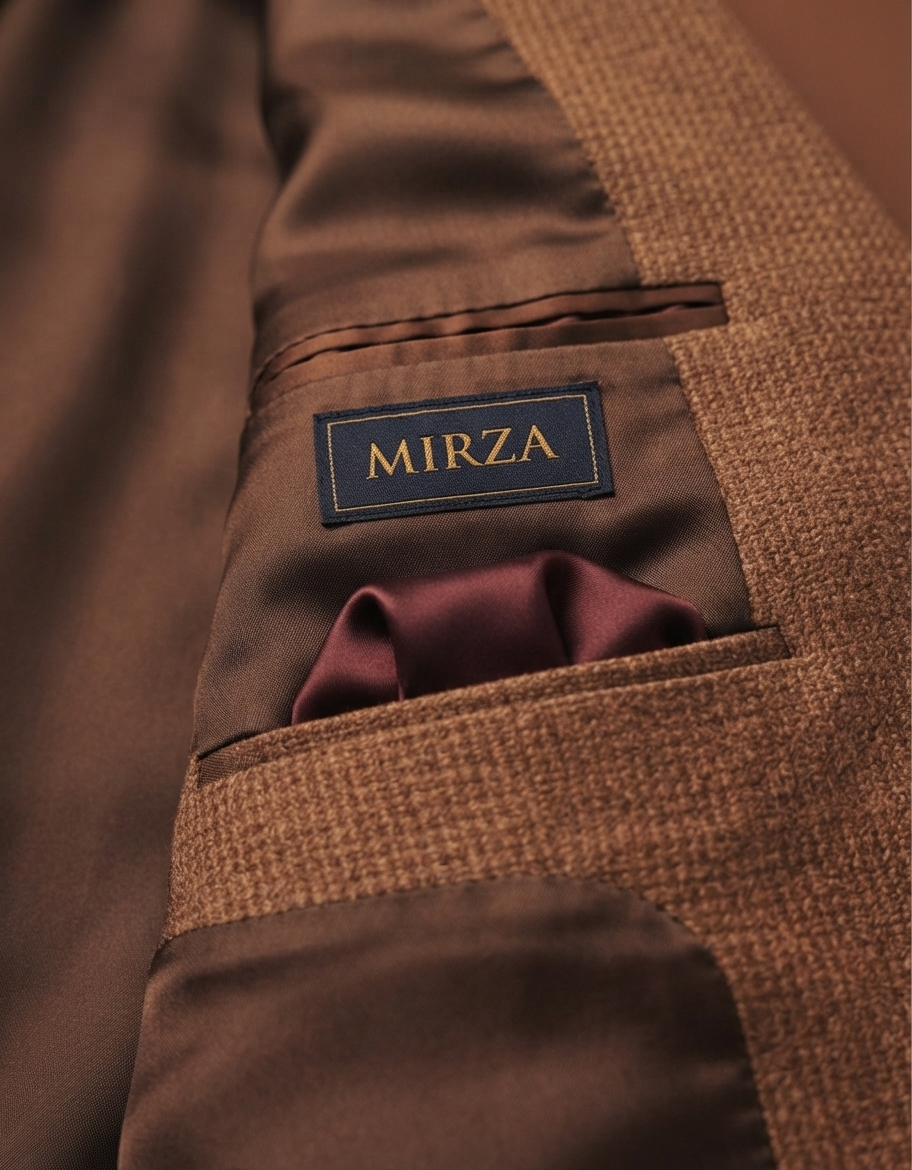
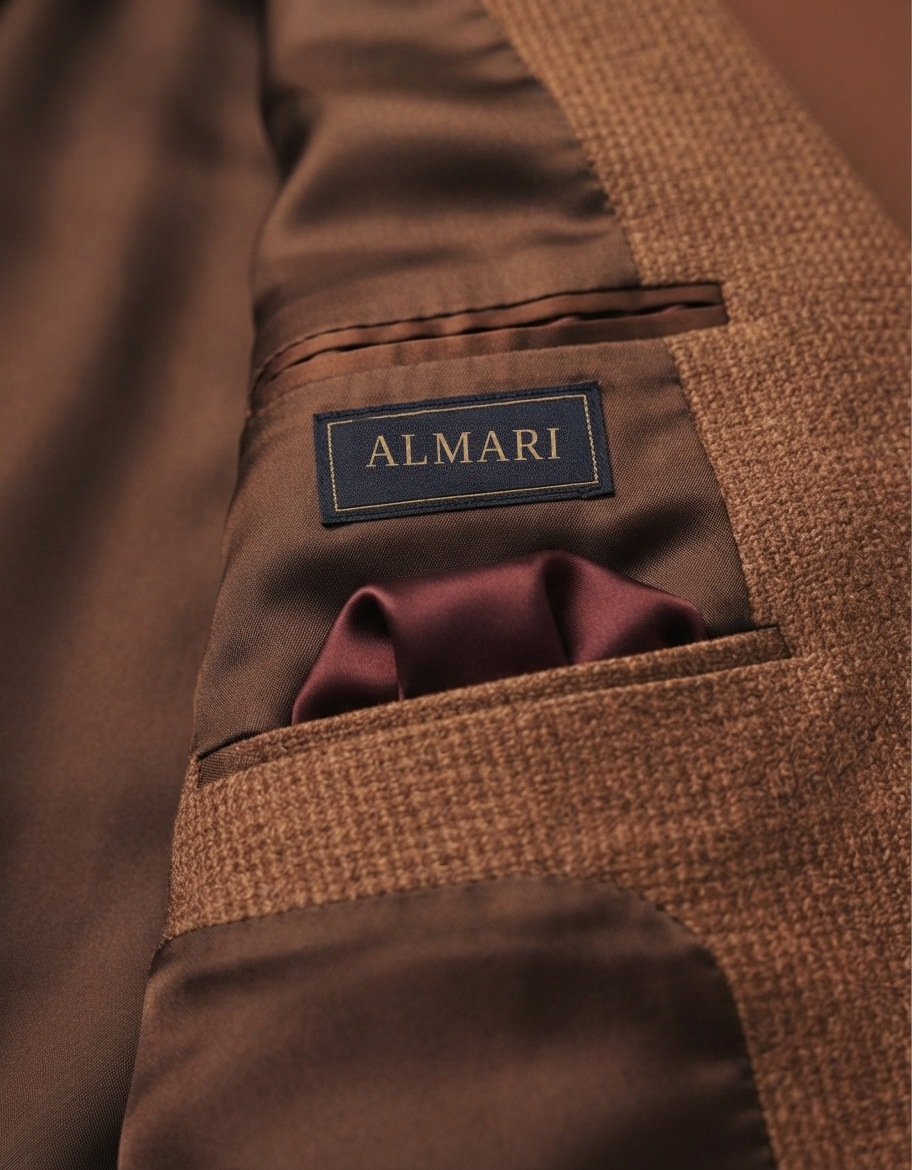
Endurnefna Mirza í Almari (texti og myndir)

Changed region(s): [[0.3991, 0.3385, 0.614, 0.4308]]

diff --git a/index.html b/index.html
@@ -3,7 +3,7 @@
 <head>
 <meta charset="utf-8">
 <meta name="viewport" content="width=device-width, initial-scale=1">
-<title>Mirza — Sérsaumuð herraföt</title>
+<title>Almari — Sérsaumuð herraföt</title>
 <link rel="preconnect" href="https://fonts.googleapis.com">
 <link href="https://fonts.googleapis.com/css2?family=Bodoni+Moda:ital,wght@0,400;0,500;0,600;0,700;1,400;1,500&family=Work+Sans:wght@400;500;600&display=swap" rel="stylesheet">
 <style>
@@ -34,7 +34,7 @@
 
   <!-- NAV -->
   <nav style="position: fixed; top: 0; left: 0; right: 0; z-index: 50; display: flex; align-items: center; justify-content: space-between; padding: 20px 48px; background: rgba(20,16,12,0.86); backdrop-filter: blur(10px);">
-    <a href="#top" class="serif" style="font-size: 42px; font-style: italic; color: #EDE6D6; letter-spacing: 0.01em;">Mirza</a>
+    <a href="#top" class="serif" style="font-size: 42px; font-style: italic; color: #EDE6D6; letter-spacing: 0.01em;">Almari</a>
     <div class="nav-links">
       <a href="#ferlid" style="color: #EDE6D6; font-size: 15px;">Ferlið</a>
       <a href="#handverk" style="color: #EDE6D6; font-size: 15px;">Handverkið</a>
@@ -62,7 +62,7 @@
       </div>
       <div style="display: flex; flex-direction: column; gap: 16px;">
         <div style="position: relative; width: 100%; aspect-ratio: 912/700; overflow: hidden; border: 1px solid rgba(237,230,214,0.14);">
-          <img src="hero-flatlay.jpg" alt="Sérsaumuð MIRZA jakkaföt og verkfæri klæðskerans" style="width: 100%; height: 100%; object-fit: cover; object-position: top center; display: block;">
+          <img src="hero-flatlay.jpg" alt="Sérsaumuð ALMARI jakkaföt og verkfæri klæðskerans" style="width: 100%; height: 100%; object-fit: cover; object-position: top center; display: block;">
         </div>
         <p style="margin: 0; font-size: 13px; font-style: italic; color: #8A7F6B;">Verkfærin á bak við hverja flík.</p>
       </div>
@@ -114,7 +114,7 @@
         </p>
         <div style="display: flex; align-items: center; gap: 16px; margin-top: 8px;">
           <div style="width: 96px; height: 124px; flex-shrink: 0; overflow: hidden; border: 1px solid rgba(237,230,214,0.18);">
-            <img src="label-lining.jpg" alt="MIRZA merkið saumað í fóðrið" style="width: 100%; height: 100%; object-fit: cover; display: block;">
+            <img src="label-lining.jpg" alt="ALMARI merkið saumað í fóðrið" style="width: 100%; height: 100%; object-fit: cover; display: block;">
           </div>
           <p style="margin: 0; font-size: 14px; font-style: italic; color: #8A7F6B;">Hvert stykki merkt í höndunum.</p>
         </div>
@@ -156,7 +156,7 @@
     <div style="max-width: 780px; margin: 0 auto; text-align: center; display: flex; flex-direction: column; gap: 24px; align-items: center;">
       <h2 class="serif" style="margin: 0; font-size: 42px; font-weight: 500;">Um okkur</h2>
       <p style="margin: 0; font-size: 18px; line-height: 1.7; color: #3D3629;">
-        Mirza er stofnað af Birni Gestssyni og Muhammad Ahmad — tveimur mönnum sem alltaf hafa haft dálæti á klassískum herrafatnaði. Við trúum á handverk sem eldist vel, og á flík sem er saumuð fyrir einn mann í einu.
+        Almari er stofnað af Birni Gestssyni og Muhammad Ahmad — tveimur mönnum sem alltaf hafa haft dálæti á klassískum herrafatnaði. Við trúum á handverk sem eldist vel, og á flík sem er saumuð fyrir einn mann í einu.
       </p>
     </div>
   </section>
@@ -177,7 +177,7 @@
   <footer style="background: #140F0B; padding: 72px 64px 40px;" class="sec-pad">
     <div style="max-width: 1240px; margin: 0 auto; display: flex; flex-wrap: wrap; justify-content: space-between; gap: 48px; border-bottom: 1px solid rgba(237,230,214,0.14); padding-bottom: 48px;">
       <div style="display: flex; flex-direction: column; gap: 10px; max-width: 320px;">
-        <div class="serif" style="font-size: 28px; font-style: italic; color: #EDE6D6;">Mirza</div>
+        <div class="serif" style="font-size: 28px; font-style: italic; color: #EDE6D6;">Almari</div>
         <p style="margin: 0; font-size: 14px; color: #8A7F6B;">Handverk frá Lahore – mælt í Reykjavík</p>
       </div>
       <div style="display: flex; gap: 40px;">
@@ -191,7 +191,7 @@
         <span>[INSTAGRAM]</span>
       </div>
     </div>
-    <p style="margin: 24px 0 0; text-align: center; font-size: 13px; color: #6B6153;">© 2026 Mirza. Öll réttindi áskilin.</p>
+    <p style="margin: 24px 0 0; text-align: center; font-size: 13px; color: #6B6153;">© 2026 Almari. Öll réttindi áskilin.</p>
   </footer>
 
 </div>
